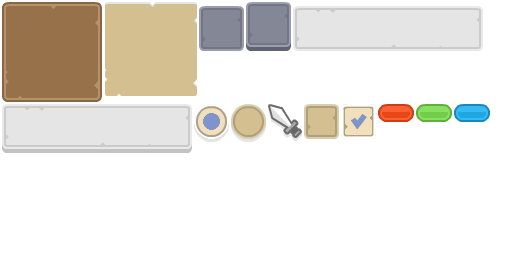
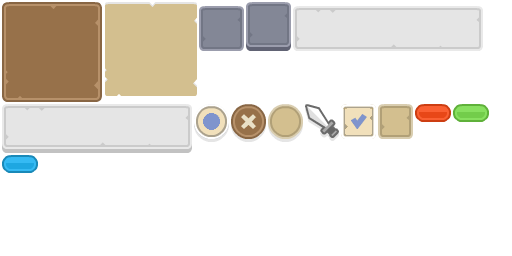
nested gui controls

Changed region(s): [[0.4375, 0.4062, 0.6875, 0.5625], [0.7188, 0.4062, 0.9688, 0.5625], [0.0, 0.5938, 0.0938, 0.6875]]

diff --git a/Source/MonoGame.Extended/ColorHelper.cs b/Source/MonoGame.Extended/ColorHelper.cs
@@ -1,4 +1,8 @@
-using System.Globalization;
+using System;
+using System.Collections.Generic;
+using System.Globalization;
+using System.Linq;
+using System.Reflection;
 using Microsoft.Xna.Framework;
 
 namespace MonoGame.Extended
@@ -59,6 +63,19 @@ namespace MonoGame.Extended
             var bx = $"{color.B:x2}";
             var ax = $"{color.A:x2}";
             return $"#{rx}{gx}{bx}{ax}";
+        }
+        
+        private static readonly Dictionary<string, Color> _colorsByName = typeof(Color)
+            .GetRuntimeProperties()
+            .Where(p => p.PropertyType == typeof(Color))
+            .ToDictionary(p => p.Name, p => (Color) p.GetValue(null), StringComparer.OrdinalIgnoreCase);
+
+        public static Color FromName(string name)
+        {
+            if(_colorsByName.TryGetValue(name, out var color))
+                return color;
+
+            throw new InvalidOperationException($"{name} is not a valid color");
         }
     }
 }

diff --git a/Source/MonoGame.Extended.Gui/Serialization/GuiControlJsonConverter.cs b/Source/MonoGame.Extended.Gui/Serialization/GuiControlJsonConverter.cs
@@ -24,6 +24,18 @@ namespace MonoGame.Extended.Gui.Serialization
             var style = (GuiControlStyle) _styleConverter.ReadJson(reader, objectType, existingValue, serializer);
             var skin = (string) style["Skin"];
             var control = controlFactory.Create(style.TargetType, skin);
+
+            if (style.TryGetValue(nameof(GuiControl.Controls), out var childControls))
+            {
+                var controlCollection = childControls as GuiControlCollection;
+
+                if (controlCollection != null)
+                {
+                    foreach (var child in controlCollection)
+                        control.Controls.Add(child);
+                }
+            }
+
             style.Apply(control);
             return control;
         }

diff --git a/Source/MonoGame.Extended/Serialization/ColorJsonConverter.cs b/Source/MonoGame.Extended/Serialization/ColorJsonConverter.cs
@@ -16,10 +16,10 @@ namespace MonoGame.Extended.Serialization
             return objectType == typeof(Color);
         }
 
-        public override object ReadJson(JsonReader reader, Type objectType, object existingValue,
-            JsonSerializer serializer)
+        public override object ReadJson(JsonReader reader, Type objectType, object existingValue, JsonSerializer serializer)
         {
-            return ColorHelper.FromHex((string) reader.Value);
+            var value = (string)reader.Value;
+            return value.StartsWith("#") ? ColorHelper.FromHex(value) : ColorHelper.FromName(value);
         }
     }
 }
